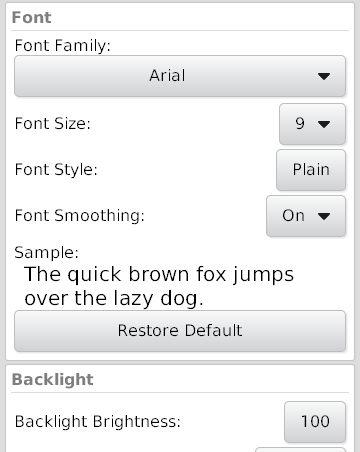
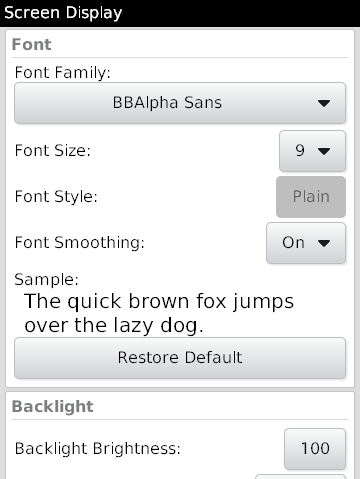
added ability to disable buttons

diff --git a/samples/bbUI/bbUI.js b/samples/bbUI/bbUI.js
@@ -441,8 +441,15 @@ bb = {
 			} else {
 				for (var i = 0; i < elements.length; i++) {
 					var outerElement = elements[i];
+					var disabled = outerElement.hasAttribute('data-bb-disabled');
+					outerElement.enabled = !disabled;
 					var normal = 'bb-bb7-button';
 					var highlight = 'bb-bb7-button-highlight';
+					
+					if (disabled) {
+						normal = 'bb-bb7-button-disabled';
+						outerElement.removeAttribute('data-bb-disabled');
+					}
 					
 					if (bb.device.isHiRes) {
 						normal = normal + ' bb-bb7-button-hires';
@@ -460,9 +467,75 @@ bb = {
 						}
 					}
 					outerElement.setAttribute('class',normal);
-					outerElement.setAttribute('x-blackberry-focusable','true');
-					outerElement.setAttribute('onmouseover',"this.setAttribute('class','" + highlight +"')");
-					outerElement.setAttribute('onmouseout',"this.setAttribute('class','" + normal + "')");
+					if (!disabled) {
+						outerElement.setAttribute('x-blackberry-focusable','true');
+						outerElement.setAttribute('onmouseover',"this.setAttribute('class','" + highlight +"')");
+						outerElement.setAttribute('onmouseout',"this.setAttribute('class','" + normal + "')");
+					}
+					
+					
+					// Trap the click and call it only if the button is enabled
+					outerElement.trappedClick = outerElement.onclick;
+					outerElement.onclick = undefined;	
+					if (outerElement.trappedClick !== null) {
+						outerElement.addEventListener('click',function (e) {
+								if (this.enabled) {
+									this.trappedClick();
+								}
+							},false);
+					}
+					
+					// Assign our enable function
+					outerElement.enable = function(){
+							if (this.enabled) return;
+							var normal = 'bb-bb7-button';
+							var highlight = 'bb-bb7-button-highlight';
+							
+							if (bb.device.isHiRes) {
+								normal = normal + ' bb-bb7-button-hires';
+								highlight = highlight + ' bb-bb7-button-hires';
+							} else {
+								normal = normal + ' bb-bb7-button-lowres';
+								highlight = highlight + ' bb-bb7-button-lowres';
+							}
+
+							if (this.hasAttribute('data-bb-style')) {
+								var style = this.getAttribute('data-bb-style');
+								if (style == 'stretch') {
+									normal = normal + ' button-stretch';
+									highlight = highlight + ' button-stretch';
+								}
+							}
+							this.setAttribute('class',normal);
+							this.setAttribute('x-blackberry-focusable','true');
+							this.setAttribute('onmouseover',"this.setAttribute('class','" + highlight +"')");
+							this.setAttribute('onmouseout',"this.setAttribute('class','" + normal + "')");
+							this.enabled = true;
+						};
+					// Assign our disable function	
+					outerElement.disable = function(){
+							if (!this.enabled) return;
+							var normal = 'bb-bb7-button-disabled';
+							
+							if (bb.device.isHiRes) {
+								normal = normal + ' bb-bb7-button-hires';
+							} else {
+								normal = normal + ' bb-bb7-button-lowres';
+							}
+
+							if (this.hasAttribute('data-bb-style')) {
+								var style = this.getAttribute('data-bb-style');
+								if (style == 'stretch') {
+									normal = normal + ' button-stretch';
+									highlight = highlight + ' button-stretch';
+								}
+							}
+							this.setAttribute('class',normal);
+							this.removeAttribute('x-blackberry-focusable');
+							this.removeAttribute('onmouseover');
+							this.removeAttribute('onmouseout');
+							this.enabled = false;
+						};
 				}	
 			}
 		}

diff --git a/samples/settings.htm b/samples/settings.htm
@@ -43,7 +43,7 @@
 		   </div>
 			<div data-bb-type="row">
 			   <div data-bb-type="label">Font Style:</div>
-			   <div data-bb-type="button">Plain</div>
+			   <div id="fontstyle" data-bb-type="button" data-bb-disabled="true" onclick="alert('clicked Plain');">Plain</div>
 		   </div>
 		   <div data-bb-type="row">
 			   <div data-bb-type="label">Font Smoothing:</div>
@@ -56,7 +56,7 @@
 	   <div style="margin:3px;">
 		   <div data-bb-type="label">Sample:</div>
 		   <div style="margin-left:10px;margin-right:10px;font-size:15pt">The quick brown fox jumps over the lazy dog.</div>
-		   <div data-bb-type="button" data-bb-style="stretch" >Restore Default</div>
+		   <div data-bb-type="button" data-bb-style="stretch" onclick="document.getElementById('fontstyle').enable();">Restore Default</div>
 	   </div>
 	</div>
 

diff --git a/samples/bbUI/bbUI.css b/samples/bbUI/bbUI.css
@@ -117,6 +117,21 @@ body, html {
 	background-image: -webkit-gradient(linear, center top, center bottom, from(#F9F9F9), to(#D0D2D4));
 }
 
+.bb-bb7-button-disabled {
+	border-width:1px;
+	border-color:#BDBEBD;
+	border-style: solid;
+	color: #636563;
+	text-align:center;
+	white-space:nowrap;
+	vertical-align: middle;
+	padding-left: 15px;
+	padding-right: 15px;
+	display: table-cell;
+	border-radius:5px;
+	background-color: #BDBEBD;
+}
+
 .bb-bb7-button-hires {
 	line-height:54px;
 	height:54px;

diff --git a/README.md b/README.md
@@ -239,13 +239,19 @@ Buttons and Dropdowns can be used pretty much anywhere.  Creating a button start
 will size itself to the text used for the caption.  You can however use the **data-bb-style="stretch"** setting for a button to make it stretch to the total width of
 the container where it is embedded.  I wouldn't recommend using the "stretch" capability if you use a button in a Label/Control row.
 
+You can disable in your initial markup by setting the **data-bb-disabled="true"** attribute.  When you want to dynamically change the state of your button you can
+call it&apos;s **enable()** and **disable()** functions.
+
+	document.getElementById('plain').enable();
+	document.getElementById('plain').disable();
+
 To add a click handler to the button simply add an "onclick" event to the &lt;div&gt;.
 
 	<div data-bb-type="screen">
 		<div data-bb-type="panel-header">Font</div>
 		   <div data-bb-type="label-control-horizontal-row">
 			   <div data-bb-type="label">Font Style:</div>
-			   <div data-bb-type="button" onclick="alert('click');">Plain</div>
+			   <div data-bb-type="button" onclick="alert('click');" id="plain">Plain</div>
 		   </div>
 		</div>
 	</div>
@@ -399,6 +405,7 @@ last to create the rounded ends of the pill button UI.  To handle the click of t
 **General**
 
 * Tabs are not working in the samples
+* No disabled dropdowns yet
 
 **BB6/BB7**
 
@@ -418,3 +425,4 @@ last to create the rounded ends of the pill button UI.  To handle the click of t
 * There are various back button issues
 * Focus based navigation mode can get confused when navigating between screens
 * Dropdown buttons do not work
+* Disabled buttons are not supported
